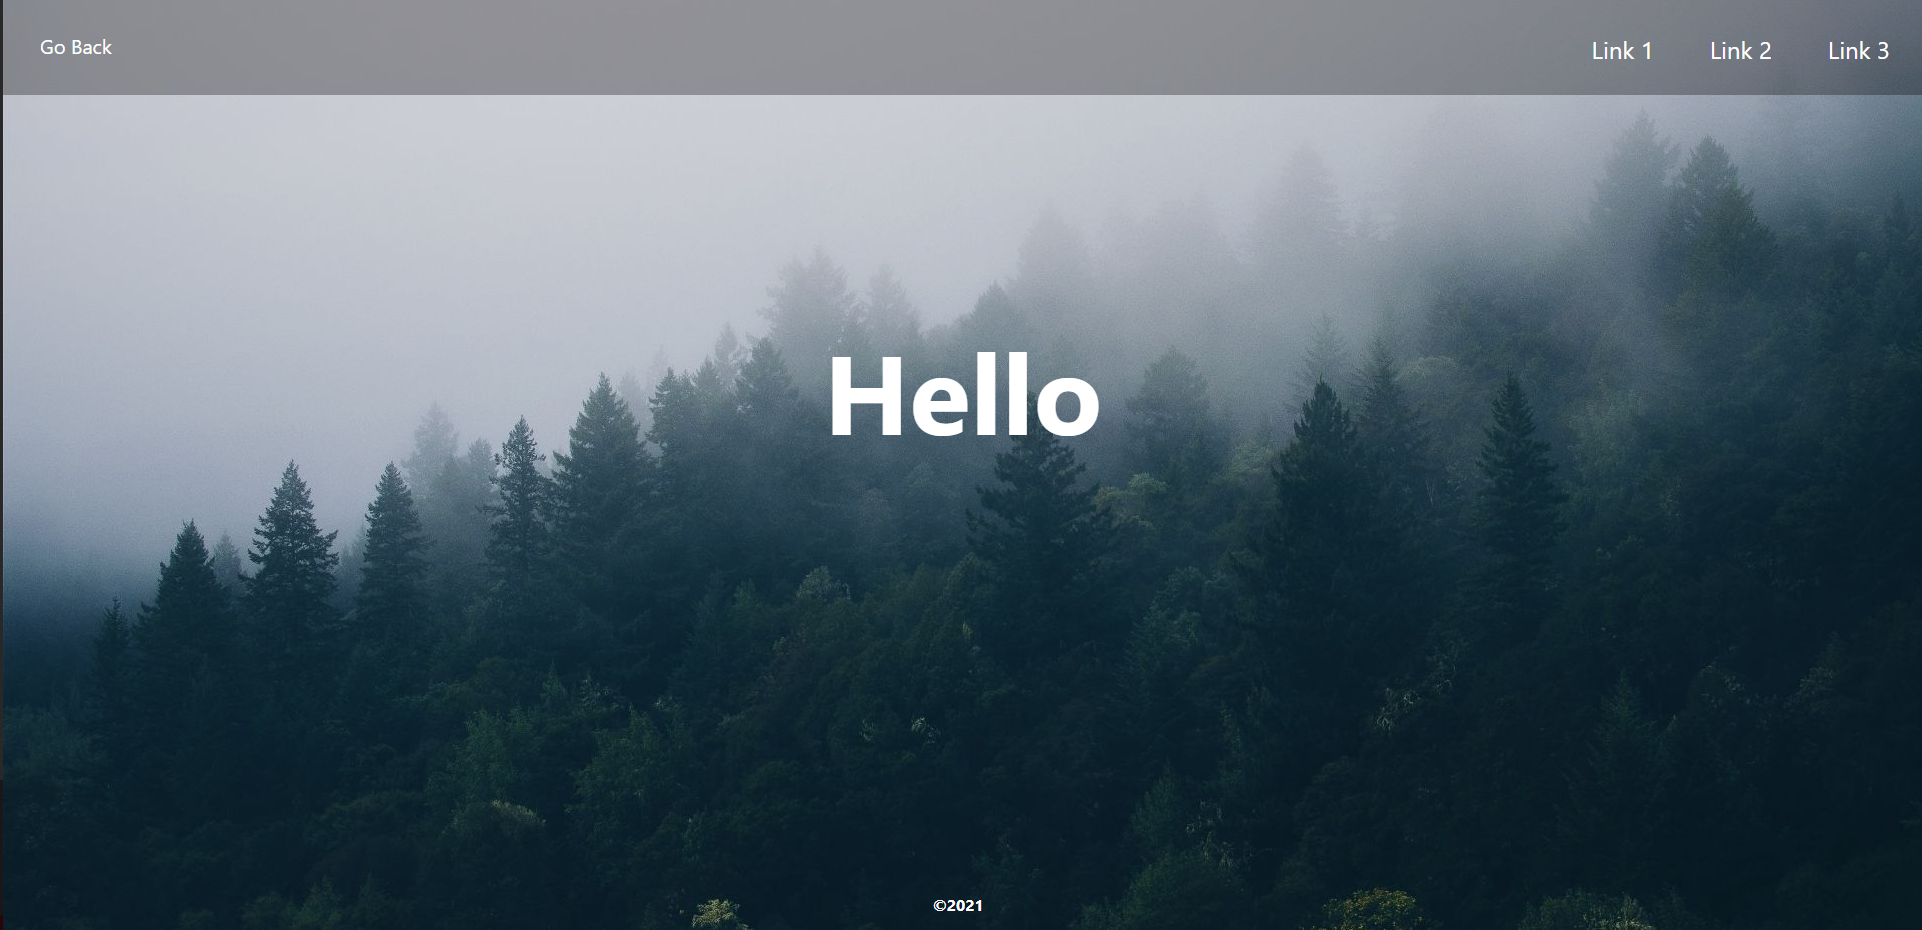
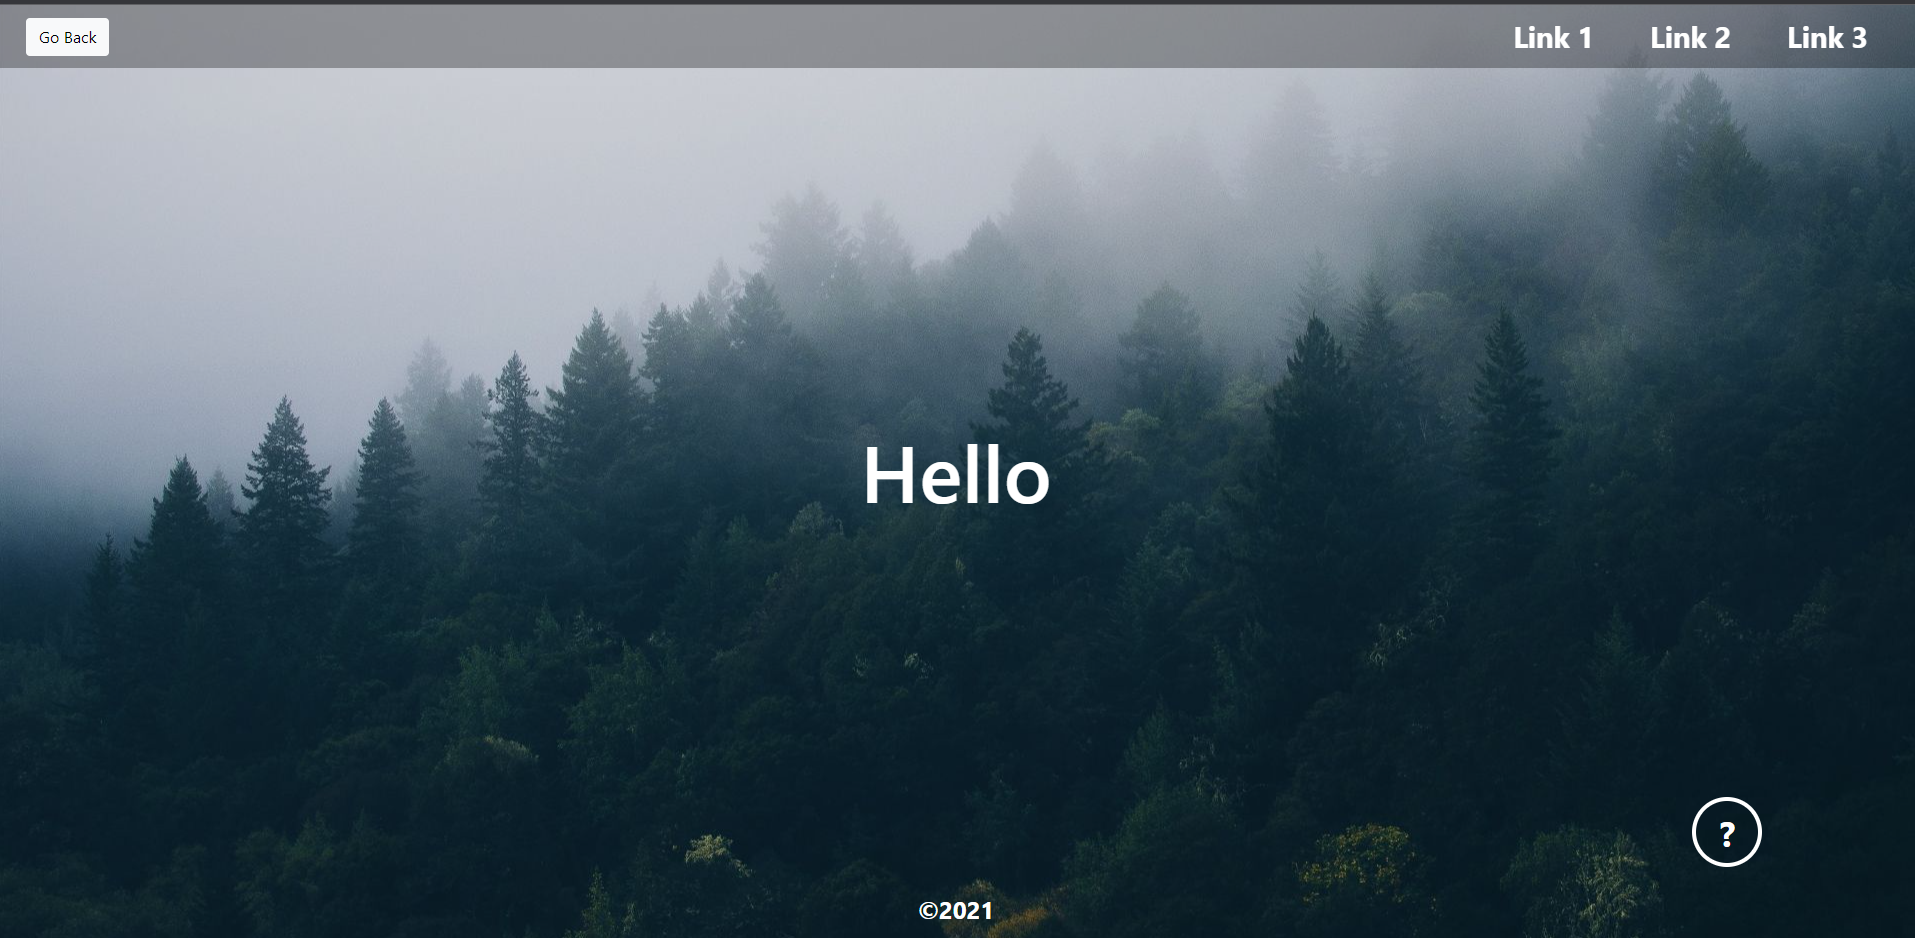
Change font family, add updated layout image

diff --git a/src/index.css b/src/index.css
@@ -1,7 +1,6 @@
 body {
   margin: 0;
-  font-family: -apple-system, BlinkMacSystemFont, 'Segoe UI', 'Roboto', 'Oxygen',
-    'Ubuntu', 'Cantarell', 'Fira Sans', 'Droid Sans', 'Helvetica Neue',
+  font-family: 'BlinkMacSystemFont',
     sans-serif;
   -webkit-font-smoothing: antialiased;
   -moz-osx-font-smoothing: grayscale;
